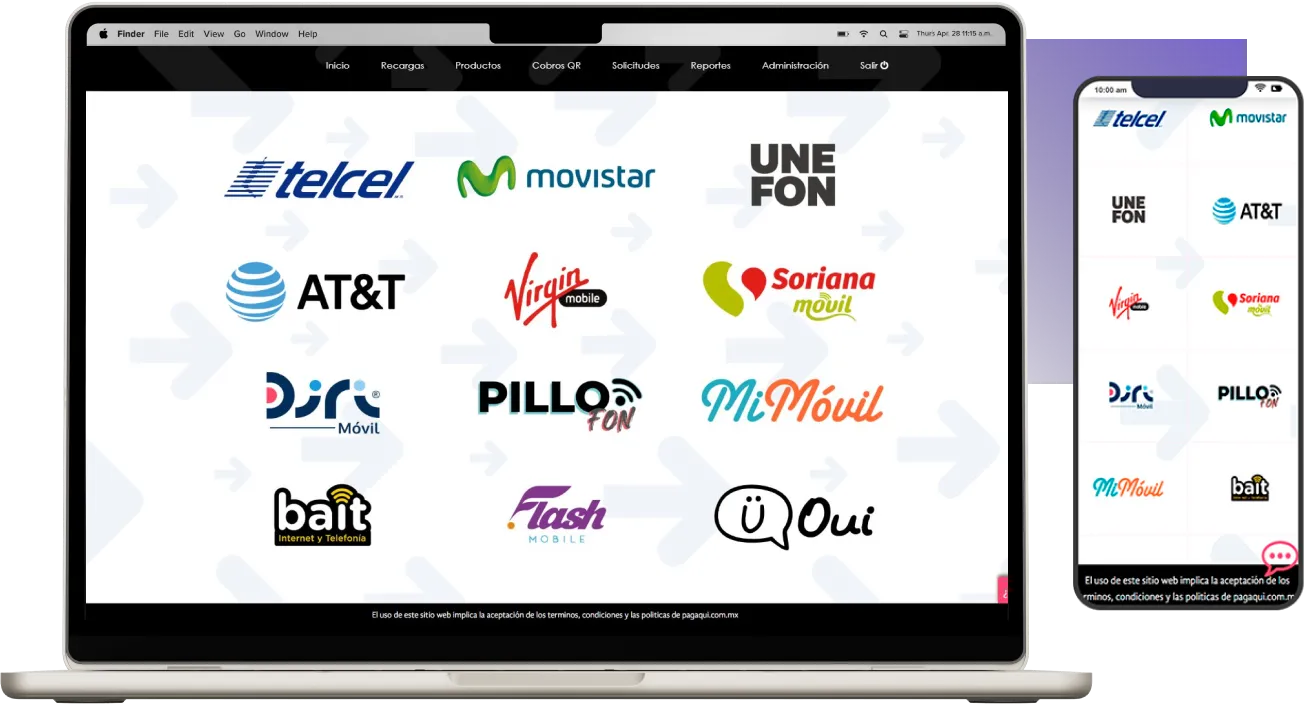
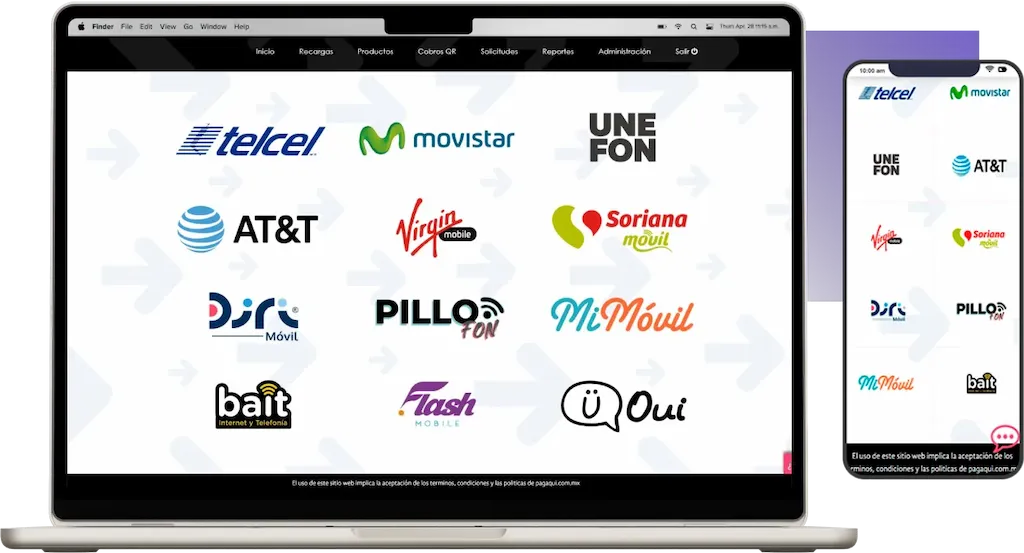
refactor(home.componet): reduce resolution images for performance

diff --git a/src/app/pages/home/home.component.html b/src/app/pages/home/home.component.html
@@ -55,7 +55,7 @@
       otras compañías disponibles en México.
     </p>
 
-    <img ngSrc="assets/img/banner-home-main.webp" alt="Venta de recargas para negocios" width="1304" height="704"
+    <img ngSrc="assets/img/banner-home-main.webp" alt="Venta de recargas para negocios" width="1024" height="553"
       priority decoding="async" fetchpriority="high" />
   </div>
 
@@ -588,7 +588,7 @@
       </div>
 
       <div class="sell-col mt-8 lg:mt-0 mx-auto">
-        <img src="assets/img/como-vender-recargas.webp" class="w-full max-w-xl" alt="Como vender recargas"
+        <img src="assets/img/como-vender-recargas.webp" class="" alt="Como vender recargas"
           loading="lazy" width="620" height="620" />
       </div>
     </div>
